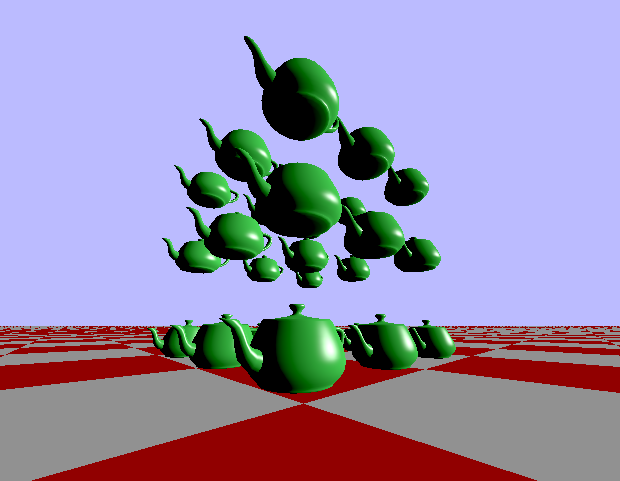
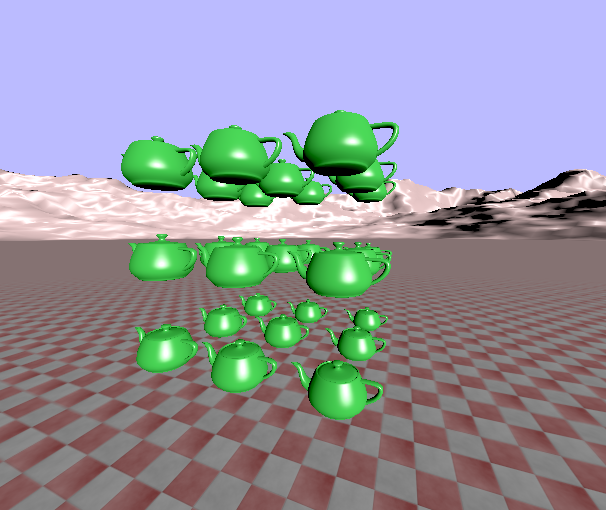
Actual heightmap generation

diff --git a/src/main.rs b/src/main.rs
@@ -8,13 +8,13 @@
 //! The program expects the following files to be available relative to the
 //! working directory:
 //!
-//!  * `data/wt_teapot.obj`
-//!  * `data/floor.obj`
-//!  * `data/materials.mtl`
-//!  * `data/teapot-texture.png`
-//!  * `data/floor-texture.png`
-//!  * `data/vertex_shader.vert`
 //!  * `data/fragment_shader.frag`
+//!  * `data/materials.mtl`
+//!  * `data/wt_teapot.obj`
+//!  * `data/floor-texture.png`
+//!  * `data/heightmap.png`
+//!  * `data/teapot-texture.png`
+//!  * `data/vertex_shader.vert`
 //!
 //! These files are all in these locations relative to the repository root, so
 //! running the program from the repository root (e.g. with `cargo run`)
@@ -52,13 +52,15 @@ use errors::*;
 use glium::{Depth, DisplayBuild, DrawParameters, Program, Surface};
 use glium::draw_parameters::{BackfaceCullingMode, DepthTest};
 use glium::glutin::{Api, ElementState, Event, GlRequest, WindowBuilder};
+use glium::uniforms::SamplerWrapFunction;
 use log::{LogLevel, LogRecord};
 use std::fs::File;
-use std::io::Read;
+use std::io::{BufReader, Read};
 use time::{now, PreciseTime};
 
 const TEAPOT_PATH: &'static str = "data/wt_teapot.obj";
-const FLOOR_PATH: &'static str = "data/floor.obj";
+const FLOOR_HEIGHTMAP: &'static str = "data/heightmap.png";
+const FLOOR_MATERIALS: &'static str = "data/materials.mtl";
 const VERTEX_SHADER_PATH: &'static str = "data/vertex_shader.vert";
 const FRAGMENT_SHADER_PATH: &'static str = "data/fragment_shader.frag";
 
@@ -93,11 +95,15 @@ fn run() -> Result<()> {
 	let library = model::mem::ModelLibrary::new();
 	let mut file = try!{ File::open(TEAPOT_PATH).chain_err(|| "Could not load teapot model") };
 	let teapot = try!{ library.load_model(&mut file) };
-//	let mut file = try!{ File::open(FLOOR_PATH).chain_err(|| "Could not load floor model") };
-//	let floor = try!{ library.load_model(&mut file) };
-	let floor = try!{ library.add_model(
-			model::heightmap::Heightmap::with_size(10, 10, 1.0).as_geometry(),
-			model::mem::default_mat()) };
+	let file = try!{ File::open(FLOOR_HEIGHTMAP).chain_err(|| "Could not load heightmap") };
+	let heightmap = try!{ model::disk::load_texture(&mut BufReader::new(file))
+			.chain_err(|| "Could not load heightmap") };
+	let floor_geom = model::heightmap::Heightmap::from_map(&heightmap, 0.0, 10.0, 10.0);
+	let mut file = try!{ File::open(FLOOR_MATERIALS)
+			.chain_err(|| "Could not load floor materials") };
+	let floor_mat = try!{ try!{ model::disk::load_mats(&mut file) }.remove("Floor")
+			.ok_or(Error::from("Floor material library missing floor material (\"Floor\")")) };
+	let floor = try!{ library.add_model(floor_geom.as_geometry(), floor_mat) };
 
 	info!("Initializing display...");
 	let display = try!{ WindowBuilder::new()
@@ -158,10 +164,10 @@ fn run() -> Result<()> {
 	objects.push(model::gpu::ModelInstance {
 		model: &gpu_floor,
 		model_matrix: [
-			[1.0,	0.0,	0.0,	0.0],
-			[0.0,	1.0,	0.0,	0.0],
-			[0.0,	0.0,	1.0,	0.0],
-			[0.0,	-0.5,	0.0,	1.0] ], } );
+			[1.0,		0.0,	0.0,	0.0],
+			[0.0,		1.0,	0.0,	0.0],
+			[0.0,		0.0,	1.0,	0.0],
+			[-500.0,	-0.5,	-500.0,	1.0] ], } );
 
 	let light_pos = [-1.0, 0.4, 0.9f32];
 	let light_color = [1.0, 1.0, 1.0f32];
@@ -224,9 +230,7 @@ fn run() -> Result<()> {
 					u_mat_ambient: object.model.material.ambient,
 					u_mat_specular: object.model.material.specular,
 					u_mat_texture: object.model.material.texture
-							.sampled()
-							.magnify_filter(
-									::glium::uniforms::MagnifySamplerFilter::Nearest),
+						.sampled().wrap_function(SamplerWrapFunction::Repeat),
 					},
 				&params).unwrap();
 		}

diff --git a/src/model/heightmap.rs b/src/model/heightmap.rs
@@ -1,6 +1,5 @@
 //! Generate heightmap meshes.
 
-use errors::*;
 use model::{mem, Vertex};
 use std::f32;
 
@@ -34,6 +33,35 @@ impl Heightmap {
 		heightmap
 	}
 
+	/// Create a heightmap object from a texture
+	pub fn from_map(map: &Vec<Vec<(u8, u8, u8, u8)>>,
+			lowest: f32,
+			highest: f32,
+			scale: f32) -> Heightmap {
+		let width = map.len();
+		let height = map[0].len();
+		let mut heightmap = Heightmap {
+			width: width,
+			heights: Vec::with_capacity(width * height),
+			scale: scale,
+		};
+		heightmap.heights.resize(width * height, HeightmapVertex { height: 0.0, metadata: () });
+		for (x, row) in map.iter().enumerate() {
+			for (z, cell) in row.iter().enumerate() {
+				let mut height = (cell.0 as f32 + cell.1 as f32 + cell.2 as f32) / 768.0;
+				height = height * (highest - lowest) + lowest;
+				heightmap.set_height(x, z, height);
+			}
+		}
+		heightmap
+	}
+
+	/// Set the height (pre-scale) at a particular x/z coordinate.
+	pub fn set_height(&mut self, x: usize, y: usize, height: f32) {
+		let index = self.get_index(x, y);
+		self.heights[index].height = height;
+	}
+
 	/// Get the vertex at a particular x/z coordinate.
 	pub fn get_vertex(&self, x: usize, z: usize) -> Vertex {
 		let index = self.get_index(x, z);
@@ -49,6 +77,7 @@ impl Heightmap {
 
 		// Compute the normal.
 		// TODO: make this more better
+		// TODO: I think this is wrong, possibly not accounting correctly for scale?
 		// For all adjacent vertices:
 		let adjacents = self.get_adjacent_vertices(x, z);
 		let norm = adjacents.len() as f32;
@@ -78,11 +107,14 @@ impl Heightmap {
 			normal[2] += adj_normal[2] / adj_normal_len;
 		}
 		normal = [normal[0] / norm, normal[1] / norm, normal[2] / norm];
+
+		// Texture mapping
+		let tex_uv = [position[0], position[2]];
+
 		Vertex {
 			position: position,
 			normal: normal,
-			// TODO: generate texture mapping
-			tex_uv: [0.0, 0.0],
+			tex_uv: tex_uv,
 		}
 	}
 

diff --git a/src/model/gpu.rs b/src/model/gpu.rs
@@ -4,7 +4,7 @@ use errors::*;
 use glium::backend::Facade;
 use glium::{IndexBuffer, VertexBuffer};
 use glium::index::PrimitiveType::TrianglesList;
-use glium::texture::{MipmapsOption, Texture2d};
+use glium::texture::Texture2d;
 use model::{mem, Vertex};
 
 /// GPU geometry, that is `Vertex`s.
@@ -46,7 +46,7 @@ impl Material {
 			ambient: src.ambient,
 			specular: src.specular,
 			texture: try!{
-				Texture2d::with_mipmaps(display, src.texture, MipmapsOption::NoMipmap)
+				Texture2d::new(display, src.texture)
 					.chain_err(|| "Could not upload texture to GPU") },
 		} )
 	}

diff --git a/heightmap-notes.md b/heightmap-notes.md
@@ -98,3 +98,11 @@ A few useful values:
 	* if y is positive, it's [-x, 1/y, -z]
 	* if y is negative, it's [x, 1/y, z]
 
+## Texturing
+
+It's mostly possible for us to tile a rectangular texture over our triangle grid. Advantage of this is no wasted texture data and it's reasonably possible to tile square textures over our heightmap. Disadvantage is that texture mapping is slightly harder and not all tris have the same texture map.
+
+Another consideration worth considering: depending on slope, not every heightmap tri has the same surface area (to say nothing of shape). Trying to automate this and maintain tiling is hopeless, though.
+
+Far and away the easiest option is to map texture u,v to vertex x,z with appropriate wrapping. The major downside here is that no two tris have the same texture mapped to them. Do we care? (Signs point to no.)
+
